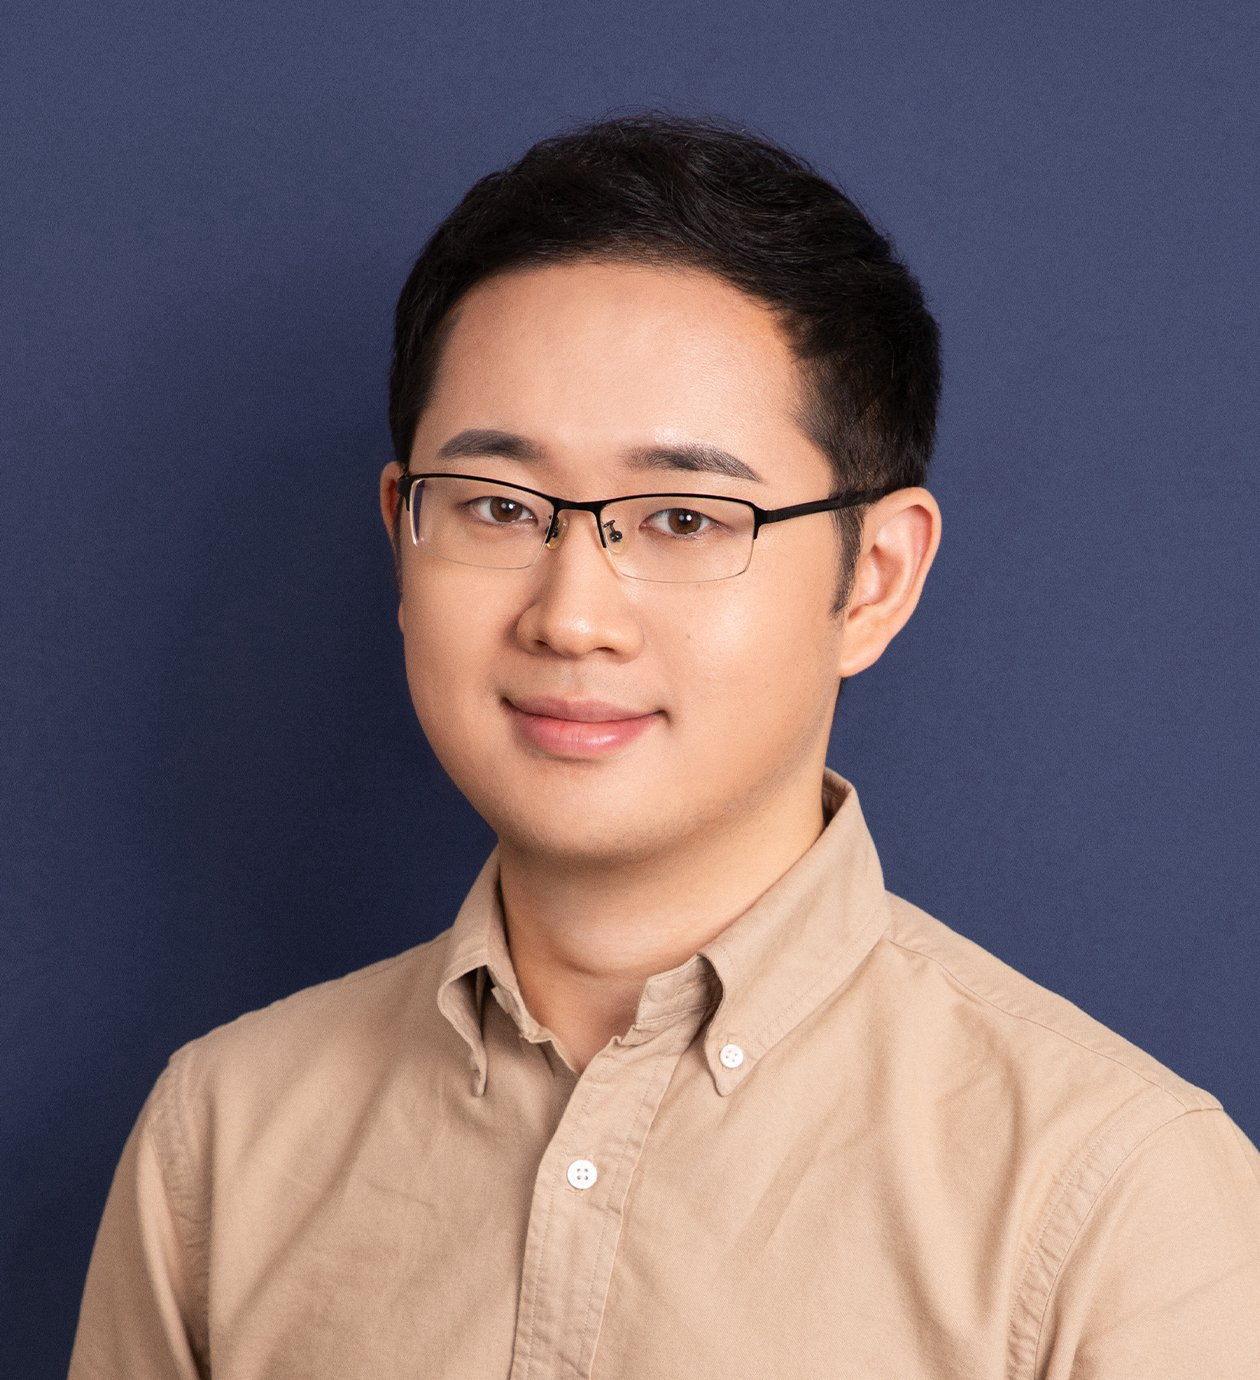
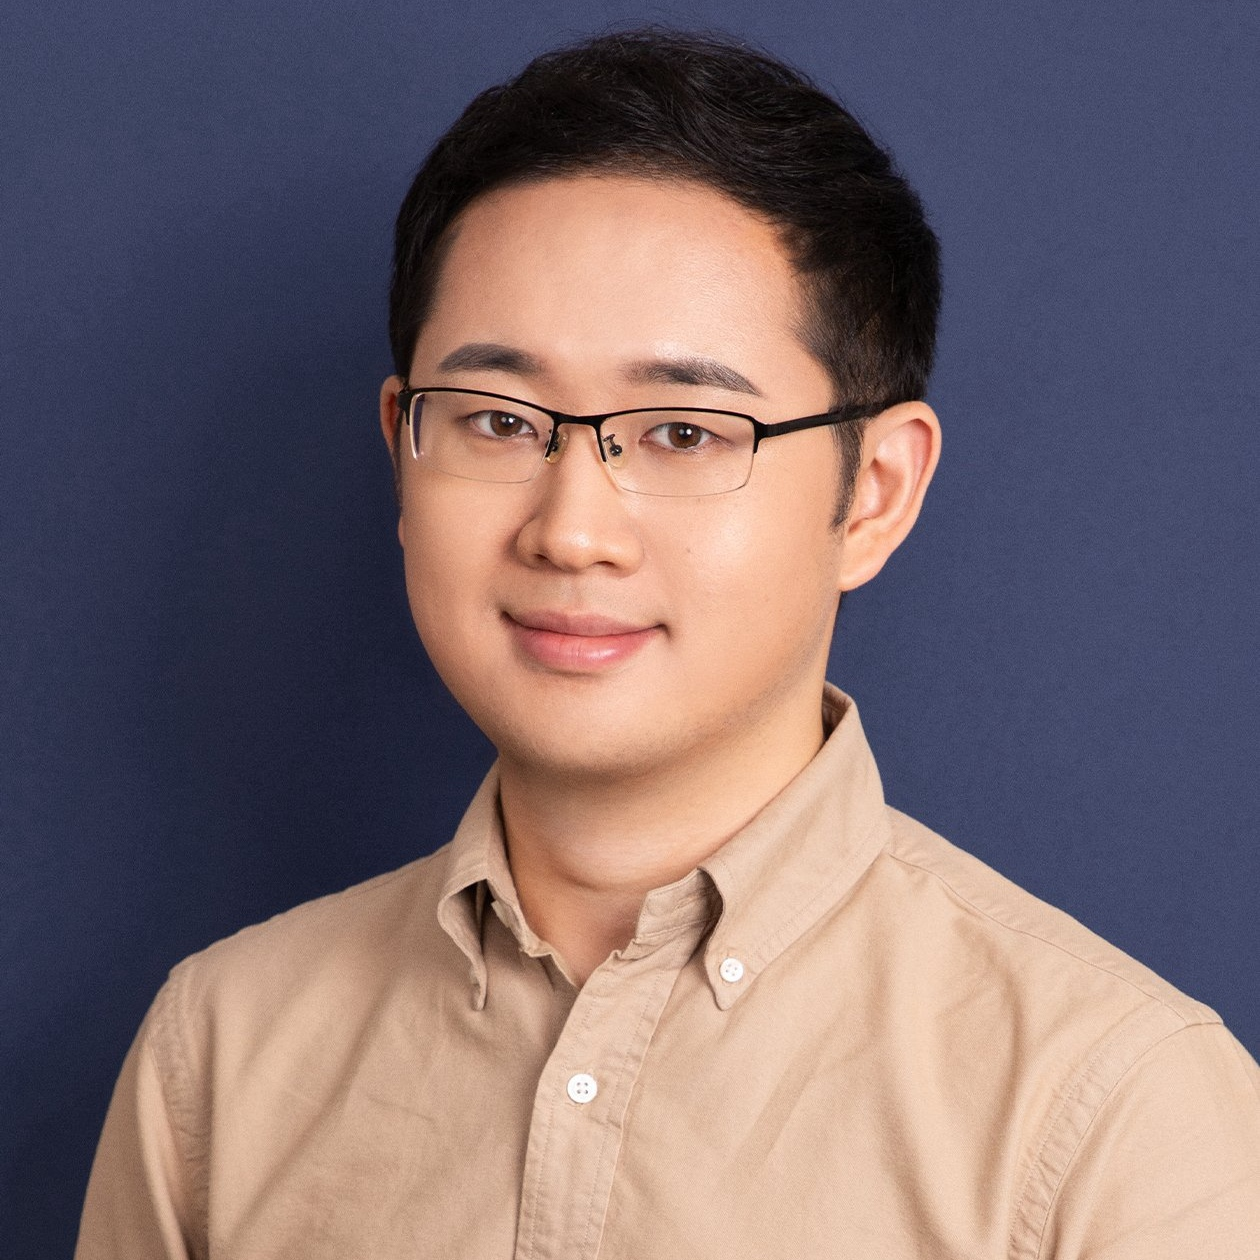
组织结构更新

diff --git a/src/committee.html b/src/committee.html
@@ -117,8 +117,8 @@
                 <div class="flex flex-wrap gap-x-4">
                     <div class="text-center">
                         <a href="http://www.cad.zju.edu.cn/home/bao/" target="_blank">
-                            <img class="max-h-[180px] max-w-none"
-                                src="/static/img/committee/Hujun_Bao.png">
+                            <img class="max-h-[180px] max-w-[160px]"
+                                src="/static/img/committee/Hujun_Bao.jpg">
                         </a>
                         <p style="font-size:15px;color:#1F9CE4;font-weight:normal;"><a
                                 href="http://www.cad.zju.edu.cn/home/bao/" target="_blank">鲍虎军</a></p>
@@ -126,7 +126,7 @@
                     </div>
                     <div class="text-center">
                         <a href="http://baoquanchen.info/" target="_blank">
-                            <img class="max-h-[180px] max-w-none"
+                            <img class="max-h-[180px] max-w-[160px]"
                                 src="/static/img/committee/Baoquan_Chen.jpg">
                         </a>
                         <p style="font-size:15px;color:#1F9CE4;font-weight:normal;"><a href="http://baoquanchen.info/"
@@ -153,7 +153,7 @@
                     <div class="text-center">
                         <a href="https://xzhou.me/" target="_blank">
                             <img class="max-h-[180px] max-w-[160px]"
-                                src="/static/img/committee/Xiaowei_Zhou.png">
+                                src="/static/img/committee/Xiaowei_Zhou.jpg">
                         </a>
                         <p style="font-size:15px;color:#1F9CE4;font-weight:normal;"><a href="https://xzhou.me/"
                                 target="_blank">周晓巍</a></p>
@@ -201,7 +201,7 @@
                     </div>
                     <div class="text-center">
                         <a href="https://csse.szu.edu.cn/staff/ruizhenhu/" target="_blank">
-                            <img src="/static/img/committee/Ruizhen_hu.png"
+                            <img src="/static/img/committee/Ruizhen_hu.jpg"
                                 class="max-h-[180px] max-w-[160px]">
                         </a>
                         <p style="font-size:15px;color:#1F9CE4;font-weight:normal;"><a
@@ -253,6 +253,16 @@
                         </a>
                         <p style="font-size:15px;color:#1F9CE4;font-weight:normal;"><a
                                 href="https://junweiliang.me/" target="_blank">梁俊卫</a>
+                        </p>
+                        <p style="font-size:13px;color:#777777">香港科技大学（广州）</p>
+                    </div>
+                    <div class="text-center mb-6">
+                        <a href="https://sites.google.com/view/haoangli/homepage" target="_blank">
+                            <img src="/static/img/committee/Haoang_Li.jpg"
+                                class="max-h-[180px] max-w-[160px]">
+                        </a>
+                        <p style="font-size:15px;color:#1F9CE4;font-weight:normal;"><a
+                                href="https://sites.google.com/view/haoangli/homepage" target="_blank">李昊昂</a>
                         </p>
                         <p style="font-size:13px;color:#777777">香港科技大学（广州）</p>
                     </div>

diff --git a/src/static/css/main.css b/src/static/css/main.css
@@ -679,12 +679,12 @@ a:hover {
   margin-bottom: 1rem;
 }
 
-.mt-4 {
-  margin-top: 1rem;
-}
-
 .mb-6 {
   margin-bottom: 1.5rem;
+}
+
+.mt-4 {
+  margin-top: 1rem;
 }
 
 .block {
